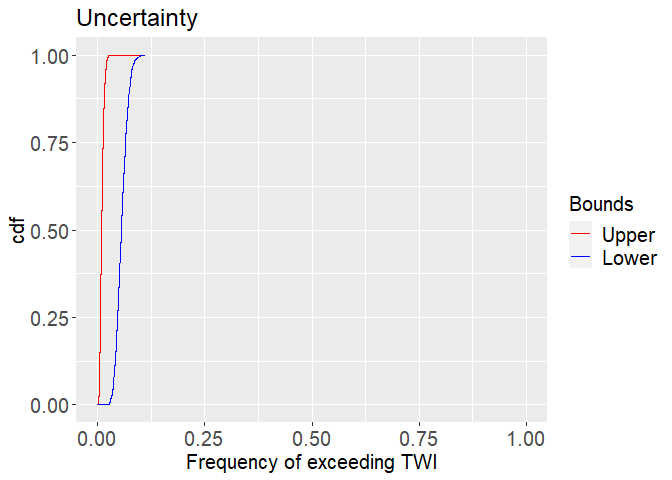
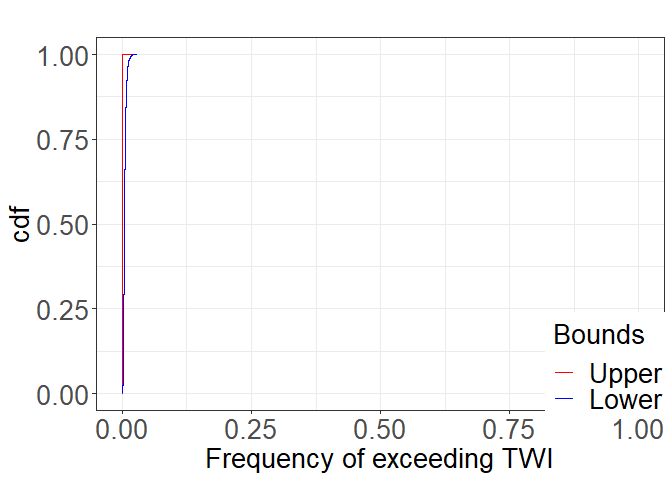
update

diff --git a/README.md b/README.md
@@ -40,15 +40,15 @@ remotes::install_github('Iraices/PrecisePvsBoundedP')
 This example does the aluminium exposure assessment by precise
 probability derived by Bayesian analysis.
 
-First, let us estimate the frequency of exceeding the safety threshold
-for an average scenario
+Let us estimate the frequency of exceeding the safety threshold for a
+random child
 
 ``` r
 library(ppvsbp)
-## Average consumption scenario
-TWI_pp_average_consumption <-
-   unc_analysis_assessment(niter_ale = 5000, niter_epi = 5000,
-             threshold = 1, exposure_scenario = 'av',
+## Random child
+TWI_pp <-
+   unc_analysis_assessment(niter_ale = 10000, niter_epi = 10000,
+             threshold = 1,
              suff_stat_concentration = data_assessment$log_concentration_ss_data,
              suff_stat_consumption = data_assessment$log_consumption_ss_data,
              consumption_change_vals_EKE = data_assessment$change_cons$vals,
@@ -64,48 +64,13 @@ TWI_pp_average_consumption <-
              consumption_event_beta0 = 1)
 
 ## Expected frequency of exceeding the safety threshold
-TWI_pp_average_consumption$expected_frequency_exceeding
-#> [1] 0.0009878
+TWI_pp$expected_frequency_exceeding
+#> [1] 0.00012114
 
 ## Highest posterior density interval of the frequency of exceeding the safety threshold
-TWI_pp_average_consumption$hdi_frequency_exceeding
-#>  lower  upper 
-#> 0.0000 0.0026 
-#> attr(,"credMass")
-#> [1] 0.95
-```
-
-Second, let us estimate the frequency of exceeding the safety threshold
-for a high consumption scenario. Note, the argument `exposure_scenario`
-has changed `exposure_scenario = 'perc_95'`.
-
-``` r
-## High consumption scenario
- TWI_pp_high_consumption <-
-   unc_analysis_assessment(niter_ale = 5000, niter_epi = 5000,
-              threshold = 1, exposure_scenario = 'perc_95',
-              suff_stat_concentration = data_assessment$log_concentration_ss_data,
-              suff_stat_consumption = data_assessment$log_consumption_ss_data,
-              consumption_change_vals_EKE = data_assessment$change_cons$vals,
-              consumption_change_probs_EKE = data_assessment$change_cons$probs/100,
-              consumers_info_sample_size = data_assessment$consumers_info_sample_size,
-              concentration_mu0 = 3.5, concentration_v0 = 5,
-              concentration_alpha0 = 1, concentration_beta0 = 1,
-              sufficient_statistics_concentration = TRUE,
-              consumption_mu0 = -3, consumption_v0 = 5,
-              consumption_alpha0 = 1, consumption_beta0 = 1,
-              sufficient_statistics_consumption = TRUE,
-              consumption_event_alpha0 = 1,
-              consumption_event_beta0 = 1)
-
-## Expected probability of exceeding the safety threshold
-TWI_pp_high_consumption$expected_frequency_exceeding
-#> [1] 0.0682148
-
-## Highest posterior density interval of the probability of exceeding the safety threshold
-TWI_pp_high_consumption$hdi_frequency_exceeding
-#>  lower  upper 
-#> 0.0086 0.1388 
+TWI_pp$hdi_frequency_exceeding
+#> lower upper 
+#> 0e+00 4e-04 
 #> attr(,"credMass")
 #> [1] 0.95
 ```
@@ -114,40 +79,22 @@ We can now visualize the results. Epistemic uncertainty has been
 characterized by a full probability distribution.
 
 ``` r
- ## Average consumption scenario
-  graph_pp(frequency_exceeding = TWI_pp_average_consumption$frequency_exceeding)
+ ## Random child
+  graph_pp(frequency_exceeding = TWI_pp$frequency_exceeding)
 ```
 
 <img src="man/figures/README-fig1-1.png" width="70%" />
 
-``` r
-    
- ## High consumption scenario
-  graph_pp(frequency_exceeding = TWI_pp_high_consumption$frequency_exceeding)
-```
-
-<img src="man/figures/README-fig1-2.png" width="70%" />
-
-``` r
- ## both scenarios
- graph_pp_both(frequency_exceeding_average_consumption = TWI_pp_average_consumption$frequency_exceeding, 
-               frequency_exceeding_high_consumption = TWI_pp_high_consumption$frequency_exceeding)
-```
-
-<img src="man/figures/README-fig2-1.png" width="85%" />
-
 Now, let us estimate the frequency of exceeding the safety threshold by
 bounded probability derived by robust Bayesian analysis.
 
-First, let us consider the case of average consumption
-
 ``` r
-## Average consumption scenario
-lower_bound_average_consumption <-
+## Random child
+lower_bound <-
     bound_frequency_exceeding_bp(obj_func_bp = obj_func_bp, maximize = FALSE,
        lower_parameters  = c(1, -5, -20),
        upper_parameters  = c(6, 1, -10),
-       niter_ale = 2000, niter_epi = 2000, threshold = 1, exposure_scenario = 'av',
+       niter_ale = 5000, niter_epi = 5000, threshold = 1,
        suff_stat_concentration = data_assessment$log_concentration_ss_data,
        suff_stat_consumption = data_assessment$log_consumption_ss_data,
        consumption_change_vals_EKE = c(-15, 7.5),
@@ -162,12 +109,11 @@ lower_bound_average_consumption <-
        consumption_event_alpha0 = 1, consumption_event_beta0 = 1, percentile = NULL)
   
 
-## Average consumption scenario
-upper_bound_average_consumption <- 
+upper_bound <- 
    bound_frequency_exceeding_bp(obj_func_bp = obj_func_bp, maximize = TRUE,
        lower_parameters  = c(1, -5, -20),
        upper_parameters  = c(6, 1, -10),
-       niter_ale = 2000, niter_epi = 2000, threshold = 1, exposure_scenario = 'av',
+       niter_ale = 5000, niter_epi = 5000, threshold = 1,
        suff_stat_concentration = data_assessment$log_concentration_ss_data,
        suff_stat_consumption = data_assessment$log_consumption_ss_data,
        consumption_change_vals_EKE = c(-15, 7.5),
@@ -181,83 +127,15 @@ upper_bound_average_consumption <-
        sufficient_statistics_consumption = TRUE,
        consumption_event_alpha0 = 1, consumption_event_beta0 = 1, percentile = NULL)
   
-```
-
-Now, let us consider the case of high consumption
-
-``` r
-  ## High consumption scenario
-  lower_bound_high_consumption <- 
-    bound_frequency_exceeding_bp(obj_func_bp = obj_func_bp, maximize = FALSE,
-       lower_parameters  = c(1, -5, -20),
-       upper_parameters  = c(6, 1, -10),
-       niter_ale = 2000, niter_epi = 2000, threshold = 1, exposure_scenario = 'perc_95',
-       suff_stat_concentration = data_assessment$log_concentration_ss_data,
-       suff_stat_consumption = data_assessment$log_consumption_ss_data,
-       consumption_change_vals_EKE = c(-15, 7.5),
-       consumption_change_probs_EKE = c(0.25, 0.75),
-       consumers_info_sample_size = data_assessment$consumers_info_sample_size,
-       concentration_mu0 = 2.75,
-       concentration_v0 = 5, concentration_alpha0 = 1, concentration_beta0 = 1,
-       sufficient_statistics_concentration = TRUE,
-       consumption_mu0 = -2.5,
-       consumption_v0 = 5, consumption_alpha0 = 1, consumption_beta0 = 1,
-       sufficient_statistics_consumption = TRUE,
-       consumption_event_alpha0 = 1, consumption_event_beta0 = 1, percentile = NULL)
-  
-  
-  
-## High consumption scenario 
-upper_bound_high_consumption <- 
-    bound_frequency_exceeding_bp(obj_func_bp = obj_func_bp, maximize = TRUE,
-       lower_parameters  = c(1, -5, -20),
-       upper_parameters  = c(6, 1, -10),
-       niter_ale = 2000, niter_epi = 2000, threshold = 1, exposure_scenario = 'perc_95',
-       suff_stat_concentration = data_assessment$log_concentration_ss_data,
-       suff_stat_consumption = data_assessment$log_consumption_ss_data,
-       consumption_change_vals_EKE = c(-15, 7.5),
-       consumption_change_probs_EKE = c(0.25, 0.75),
-       consumers_info_sample_size = data_assessment$consumers_info_sample_size,
-       concentration_mu0 = 2.75,
-       concentration_v0 = 5, concentration_alpha0 = 1, concentration_beta0 = 1,
-       sufficient_statistics_concentration = TRUE,
-       consumption_mu0 = -2.5,
-       consumption_v0 = 5, consumption_alpha0 = 1, consumption_beta0 = 1,
-       sufficient_statistics_consumption = TRUE,
-       consumption_event_alpha0 = 1, consumption_event_beta0 = 1, percentile = NULL)
 ```
 
 In the case of bounded probability derived by robust Bayesian analysis,
-epistemic uncertainty has been characterized by a probabilty box. The
-results of both cases can be visualized individualy or together.
-
-Individual cases (average consumption and high consumption)
+epistemic uncertainty has been characterized by a probability box.
 
 ``` r
- ## Average consumption scenario
-graph_bp(lower_points = lower_bound_average_consumption$opt_freq$frequency_exceeding, 
-         upper_points = upper_bound_average_consumption$opt_freq$frequency_exceeding)
+ ## Random child
+graph_bp(lower_points = lower_bound$opt_freq$frequency_exceeding, 
+         upper_points = upper_bound$opt_freq$frequency_exceeding)
 ```
 
 <img src="man/figures/README-fig3-1.png" width="70%" />
-
-``` r
-    
- ## High consumption scenario 
-graph_bp(lower_points = lower_bound_high_consumption$opt_freq$frequency_exceeding, 
-         upper_points = upper_bound_high_consumption$opt_freq$frequency_exceeding)
-```
-
-<img src="man/figures/README-fig3-2.png" width="70%" />
-
-Both cases together (average consumption and high consumption)
-
-``` r
- ## Both scenarios
-graph_bp_both(lower_points_average_consumption =                lower_bound_average_consumption$opt_freq$frequency_exceeding, 
-             upper_points_average_consumption = upper_bound_average_consumption$opt_freq$frequency_exceeding,
-              lower_points_high_consumption = lower_bound_high_consumption$opt_freq$frequency_exceeding,                      upper_points_high_consumption = 
-                upper_bound_high_consumption$opt_freq$frequency_exceeding)
-```
-
-<img src="man/figures/README-fig4-1.png" width="70%" />
